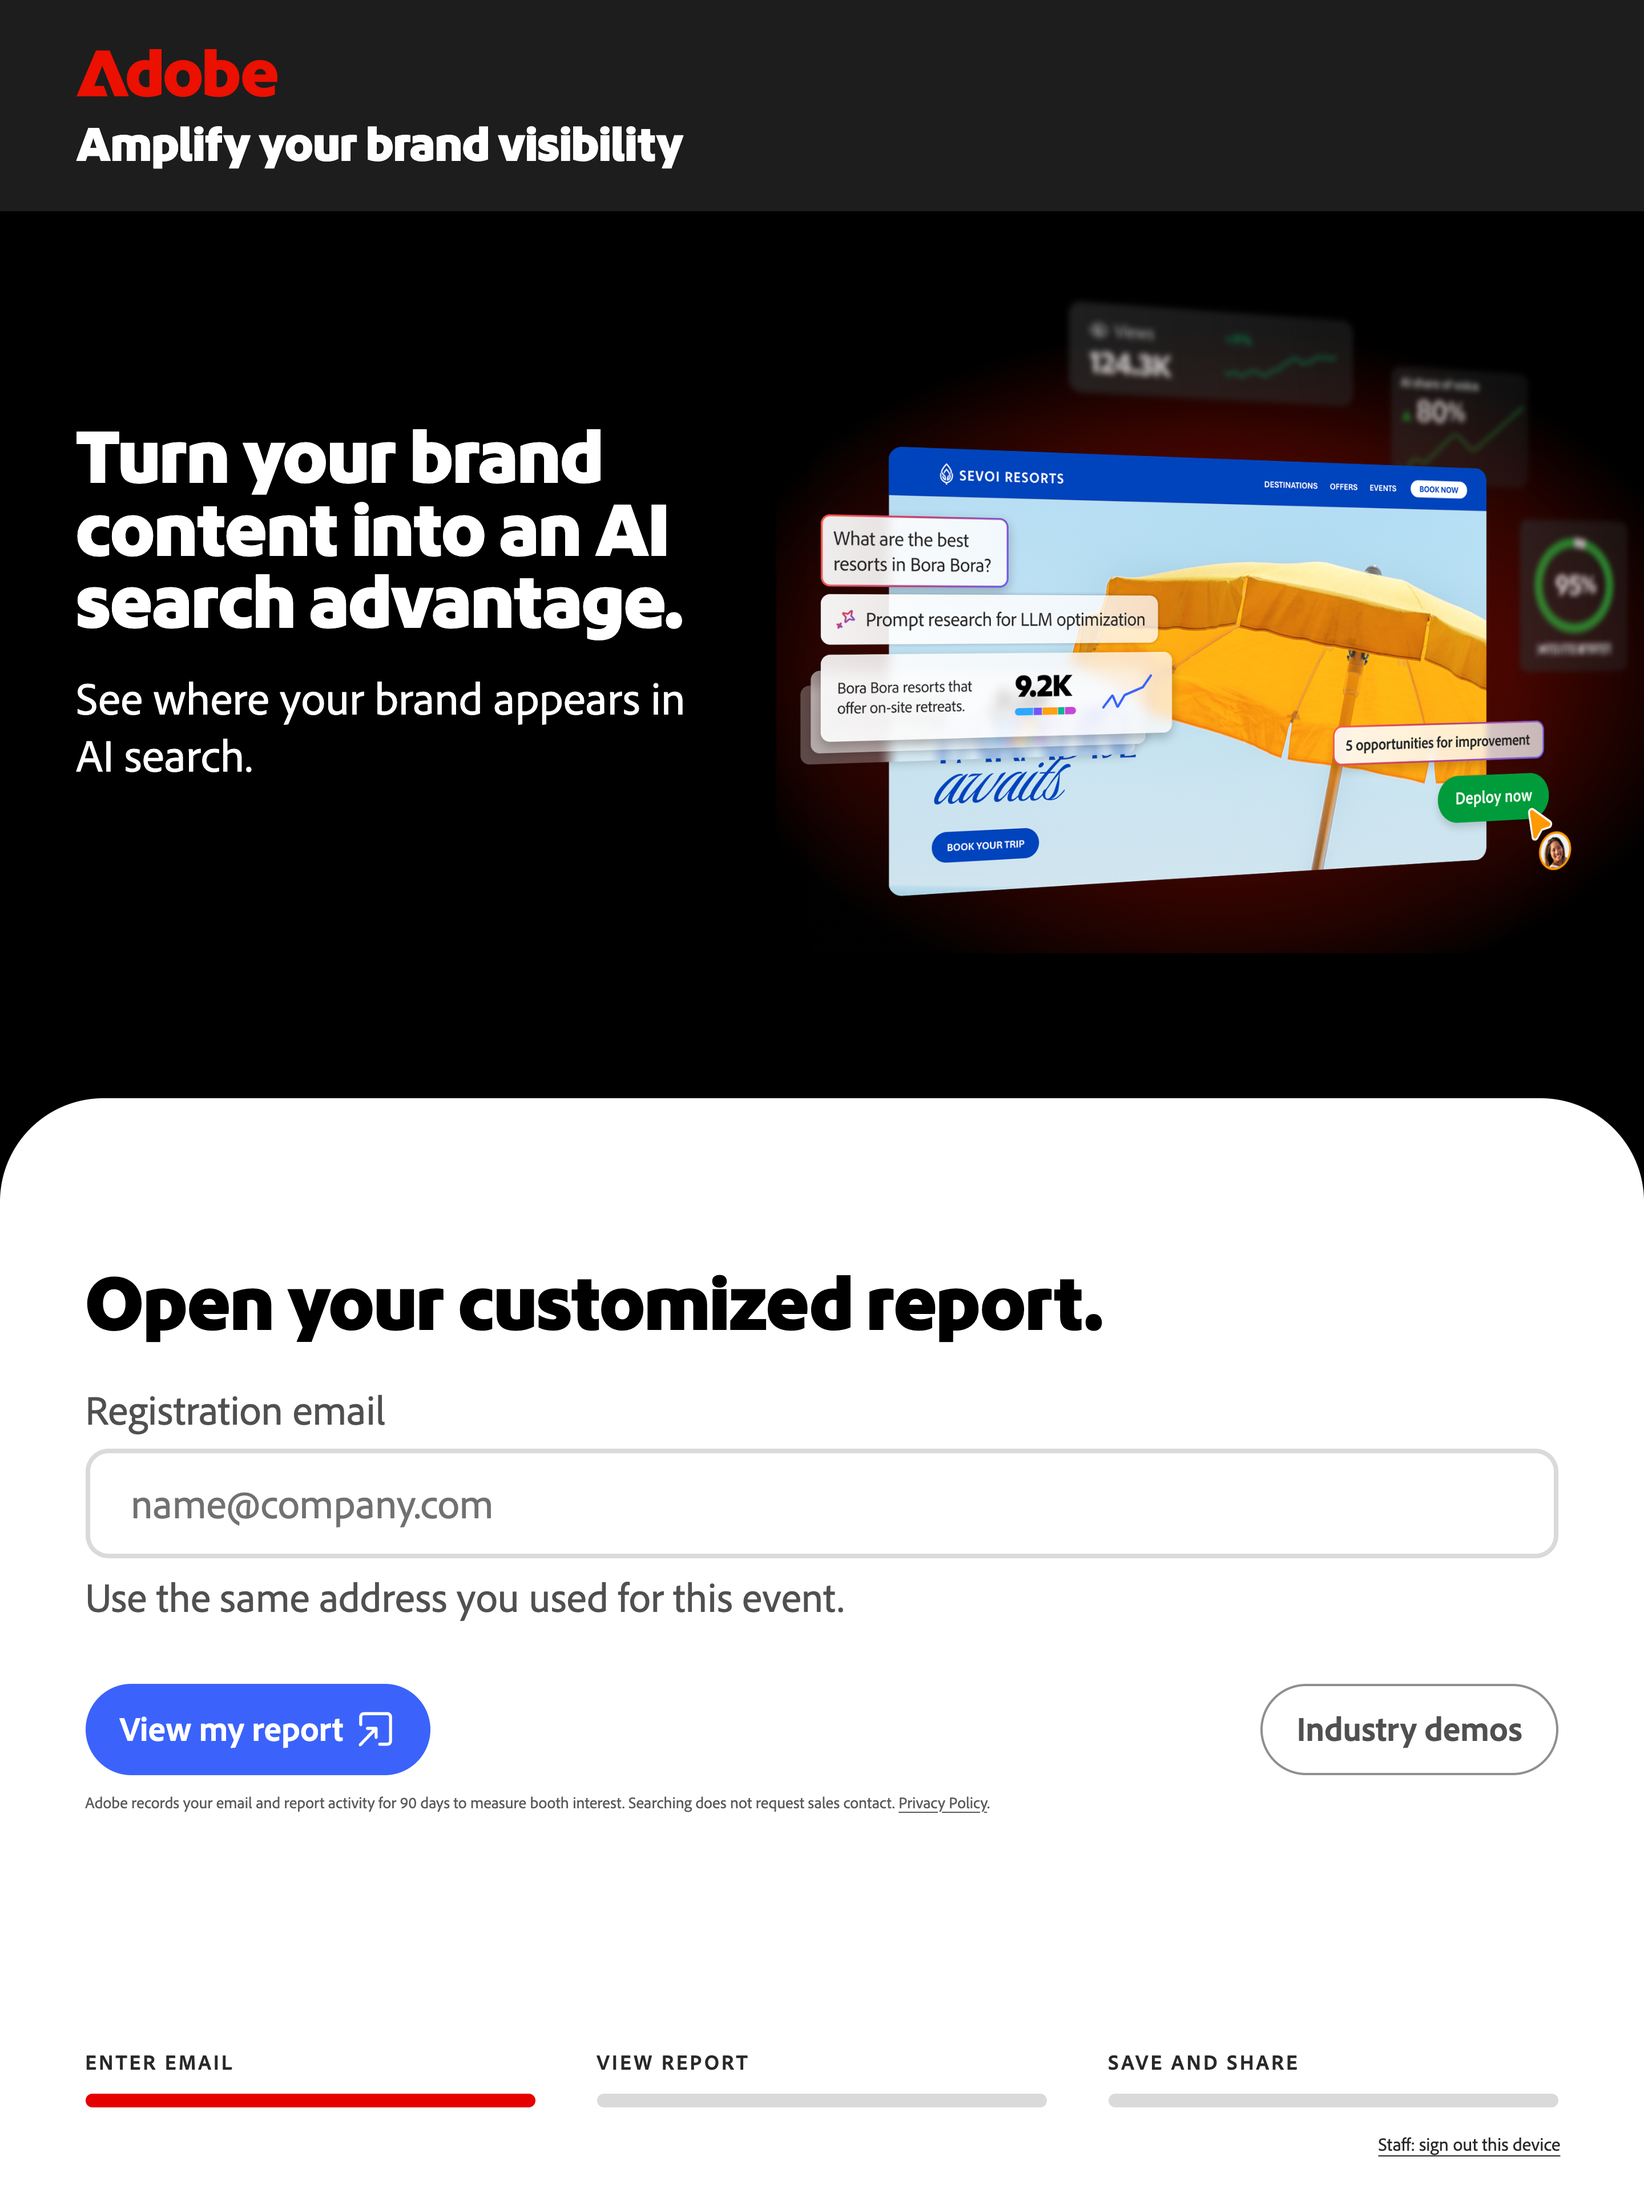
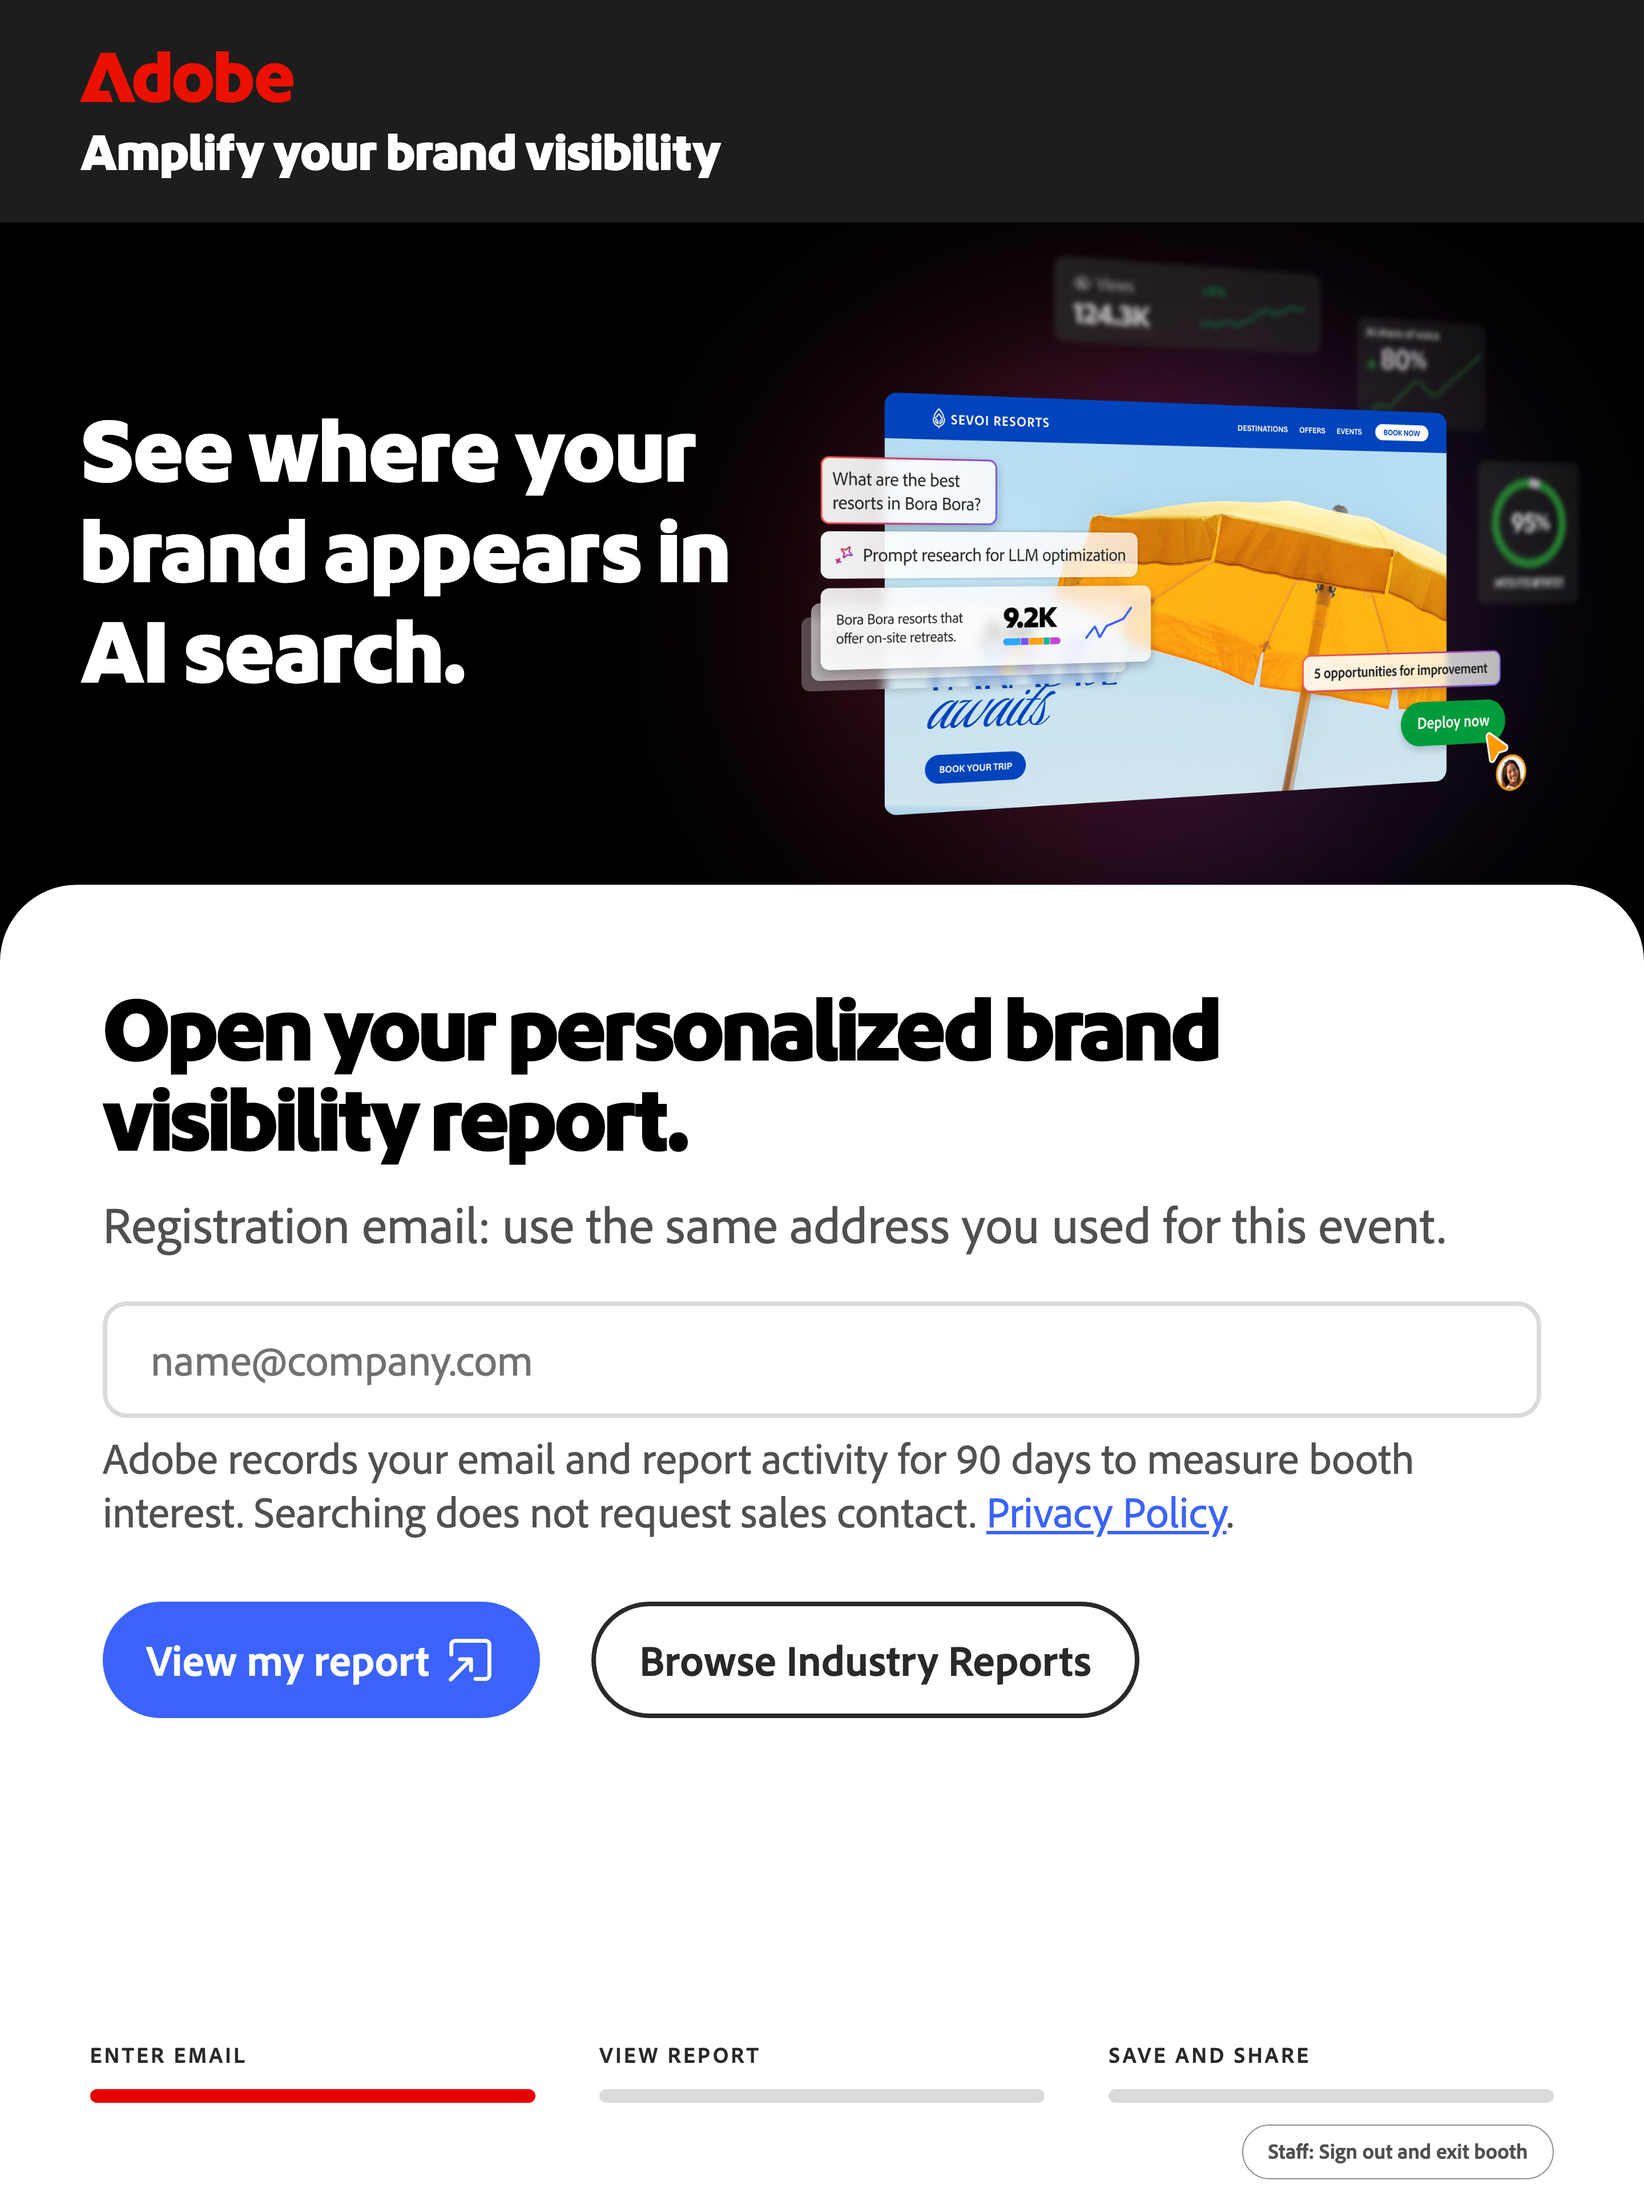
Keep booth reports in the kiosk flow and refresh the staff guide copy
Booth report pages no longer render the header account area (Sign in,
email menu and My Portal), which let visitors leave the booth flow.

The redacted staff guide copy matches the newly published guide: staff
get the booth link and sign-in from the event's Digital Insights Hub
campaign instead of credentials in the guide, and the guide covers
Browse Industry Reports, picker report dates and the embedded request
form with refreshed screenshots.

diff --git a/test/scripts/booth-guide-plugin.test.js b/test/scripts/booth-guide-plugin.test.js
@@ -107,7 +107,7 @@ describe('staff companion route matching', () => {
     expect(response.ok).to.equal(true);
     const guide = await response.json();
     expect(guide.redacted).to.equal(true);
-    expect(guide.contentVersion).to.equal('2026-10-09-v4-availability');
+    expect(guide.contentVersion).to.equal('2026-11-26-v5-requests');
     expect(guide.sourceDocument).to.equal('Amplify your brand visibility activation guide (4).docx');
     expect(guide.sections.find((section) => section.id === '2-open-the-right-company-report').searchText)
       .to.include('new website, limited traffic')
@@ -118,9 +118,10 @@ describe('staff companion route matching', () => {
       expect(guide.sections.some((section) => section.id === sectionId)).to.equal(true);
     });
     const text = guide.sections.map((section) => section.html).join('\n');
-    expect(text.match(/<img /g)).to.have.length(13);
+    expect(text.match(/<img /g)).to.have.length(15);
     [
-      '{{STAFF_USERNAME}}', '{{STAFF_PASSWORD}}', '{{SETUP_TEST_EMAIL}}',
+      '{{SETUP_TEST_EMAIL}}', 'https://digital-insights.corp.adobe.com/insights-campaigns',
+      'Browse Industry Reports', 'Request my report',
       'What Adobe Brand Visibility helps you understand', 'Google PageSpeed Insights',
       '13. Statements to avoid', 'Objection handling: value and next steps', '30 days',
       'Click button to clear the screen', 'José Correia',
@@ -130,10 +131,11 @@ describe('staff companion route matching', () => {
     expect(text).not.to.include('No email test is required on site');
     expect(guide.sections.find(({ id }) => id === '15-readiness-and-recovery').html.match(/\[ \]/g)).to.have.length(4);
     expect(text).not.to.include('Edge Delivery');
-    expect(text).not.to.include('Request my report');
+    ['{{STAFF_USERNAME}}', '{{STAFF_PASSWORD}}', 'https://act.aem.now/booth', 'Industry demos']
+      .forEach((phrase) => expect(text).not.to.include(phrase));
     const imagePaths = [...text.matchAll(/<img [^>]*src="([^"]+)"/g)]
       .map((match) => match[1]);
-    expect(imagePaths).to.have.length(13);
+    expect(imagePaths).to.have.length(15);
     const base = new URL('/docs/demo-guide/plugin/sidepanel.html', window.location.origin);
     const images = await Promise.all(imagePaths.map((path) => fetch(new URL(path, base))));
     images.forEach((image) => expect(image.ok).to.equal(true));

diff --git a/test/blocks/header.test.js b/test/blocks/header.test.js
@@ -1,0 +1,36 @@
+import { expect } from '@esm-bundle/chai';
+import sinon from 'sinon';
+import { decorateUserInfo } from '../../blocks/header/header.js';
+
+describe('header account actions', () => {
+  let marker;
+  afterEach(() => {
+    sinon.restore();
+    marker?.remove();
+  });
+
+  const section = () => {
+    const element = document.createElement('div');
+    element.innerHTML = '<div class="default-content"></div>';
+    return element;
+  };
+
+  it('offers sign-in on ordinary pages', async () => {
+    sinon.stub(window, 'fetch').resolves(new Response('{}', { status: 401 }));
+    const element = section();
+    await decorateUserInfo(element);
+    expect(element.querySelector('.user-sign-in')).to.not.equal(null);
+  });
+
+  it('shows no sign-in or portal links on booth reports', async () => {
+    marker = document.createElement('script');
+    marker.type = 'text/plain';
+    marker.dataset.boothMode = 'report';
+    document.head.append(marker);
+    const fetchStub = sinon.stub(window, 'fetch');
+    const element = section();
+    await decorateUserInfo(element);
+    expect(element.querySelector('.user-info')).to.equal(null);
+    expect(fetchStub.called).to.equal(false);
+  });
+});

diff --git a/test/scripts/booth-guide.test.js b/test/scripts/booth-guide.test.js
@@ -48,7 +48,7 @@ describe('responsive booth guide', () => {
     await init(root);
     expect(root.querySelectorAll('.bg-section')).to.have.length(20);
     expect(root.querySelectorAll('#guide-index a')).to.have.length(20);
-    expect(root.querySelectorAll('.bg-screenshot')).to.have.length(13);
+    expect(root.querySelectorAll('.bg-screenshot')).to.have.length(15);
     expect(root.querySelectorAll('h1')).to.have.length(1);
     expect(root.querySelector('#guide-index [href="#16-first-screen-setup-test"]')).to.exist;
     expect(root.querySelector('#guide-search').disabled).to.equal(false);

diff --git a/blocks/header/header.js b/blocks/header/header.js
@@ -239,9 +239,10 @@ function decorateNavSection(section) {
   }
 }
 
-async function decorateUserInfo(section) {
+export async function decorateUserInfo(section) {
   const container = section.querySelector('.default-content');
-  if (!container) return;
+  // Booth reports must not offer sign-in or portal links that leave the kiosk flow.
+  if (!container || document.querySelector('script[data-booth-mode]')) return;
 
   const wrapper = document.createElement('div');
   wrapper.className = 'user-info';

diff --git a/docs/demo-guide/plugin/README.md b/docs/demo-guide/plugin/README.md
@@ -4,6 +4,10 @@ Adapted from Jason's Chrome side-panel plugin. This is a **staff-only guide**, n
 
 The current content comes from **Amplify your brand visibility activation guide (4).docx**, supplied October 9, 2026, plus José's subsequent explanation of unavailable reports. It includes the revised capability-led Adobe Brand Visibility messaging, edited reference/objection responses, updated screenshots and the new report-ready email image showing 30-day access. The availability guidance explains insufficient data, possible new-site/traffic/AI-access limitations and team follow-up to assess another website, without diagnosing a visitor's site from the lookup. Comments, deleted revisions and fixed Word page numbers are not included. The Word file is unchanged; the older Markdown/Word artifacts are not the current plugin's source.
 
+## November 26 update (content version `2026-11-26-v5-requests`)
+
+Removed the shared staff credentials and fixed booth URLs. Section 1 now sends staff to the event's [Digital Insights Hub campaign](https://digital-insights.corp.adobe.com/insights-campaigns) for its booth link and staff sign-in, because the campaign's booth link attributes all booth activity to that event. The guide also covers **Browse Industry Reports**, report dates on the picker, the embedded **Request your Digital Opportunity Report** form and its confirmation (new screenshots 14 and 15, refreshed 02 and 03). The published `/adobe/booth-guide` KV content and this redacted copy were updated together; screenshots were re-uploaded under the new content version, with the pointer published last.
+
 ## Platform page (review approved; PR and rollout pending)
 
 The responsive `/adobe/booth-guide` page uses the same approved guide content without requiring an extension. A dashboard banner above the report picker opens the guide, not the kiosk. Desktop has a sticky index; mobile has compact section navigation. Search excludes private values; screenshots open at full size; readiness/setup checks store only revision-scoped booleans on the staff device.
@@ -19,7 +23,7 @@ For the post-merge rollout, use the existing Summit Worker environment and `wran
 
 ## Install the restricted staff package
 
-1. Use a separate staff laptop/browser, not the customer-facing kiosk. The package contains the shared credentials, approved setup email and protected company screenshot.
+1. Use a separate staff laptop/browser, not the customer-facing kiosk. The package contains the approved setup email and protected company screenshot. Booth links and staff sign-in details are never in the guide: staff get them from the event's [Digital Insights Hub campaign](https://digital-insights.corp.adobe.com/insights-campaigns).
 2. Extract `amplify-brand-visibility-plugin-v4.zip`. Keep the extracted folder in a stable location.
 3. In Chrome 116 or newer, open `chrome://extensions`, enable **Developer mode**, choose **Load unpacked**, and select the extracted folder containing `manifest.json`.
 4. Pin the extension and click its Adobe icon to open the side panel.
@@ -42,7 +46,7 @@ The repository's `docs/demo-guide` folder can also be loaded for a **redacted re
 
 ## Quick installation check
 
-Open the guide, search for `INP`, open its definition, follow its section links, open a screenshot and tick a setup check. Reopen the panel and confirm the check remains. On the booth, move from Entry to Industry demos and verify the panel follows. Manually open Objection handling and confirm it stays there until you resume following.
+Open the guide, search for `INP`, open its definition, follow its section links, open a screenshot and tick a setup check. Reopen the panel and confirm the check remains. On the booth, move from Entry to Browse Industry Reports and verify the panel follows. Manually open Objection handling and confirm it stays there until you resume following.
 
 On a company report, scroll through AI, search and performance; on Finish, check the closing guidance. If the status says **URL only**, reload the booth tab to reconnect the content script. If Chrome reports an extension error, stop using the companion until the installation is corrected.
 

diff --git a/PROJECT.md b/PROJECT.md
@@ -707,6 +707,18 @@ booth URL campaign, plus an anonymous `booth_report_requested` count with
 checks on November 26 confirmed campaign IDs on `search`, `no_report`,
 `report_selected`, `report_viewed`, `report_scroll` and `report_sent` events.
 
+**Staff guide and kiosk exits (November 26, follow-up):** the published
+`/adobe/booth-guide` (KV content version `2026-11-26-v5-requests`) no longer
+contains the shared staff credentials or fixed booth URLs. Staff get the booth
+link and sign-in from the event's Digital Insights Hub campaign
+(https://digital-insights.corp.adobe.com/insights-campaigns). It also documents
+Browse Industry Reports, picker report dates and the embedded request form,
+with refreshed screenshots. The redacted repo copy
+(`docs/demo-guide/plugin/guide.json`) matches. Booth report pages no longer
+render the header's account area (**Sign in**, email menu, **My Portal**), which
+let visitors leave the kiosk flow. Test requests and their booth activity from
+the November 26 live checks were deleted from production.
+
 Requests use the new staff-scoped `POST /auth/booth/request`
 (`handleBoothReportRequest` in `src/report-requests.js`): same validation,
 consent and storage as the public form, `request_source = 'Booth request
